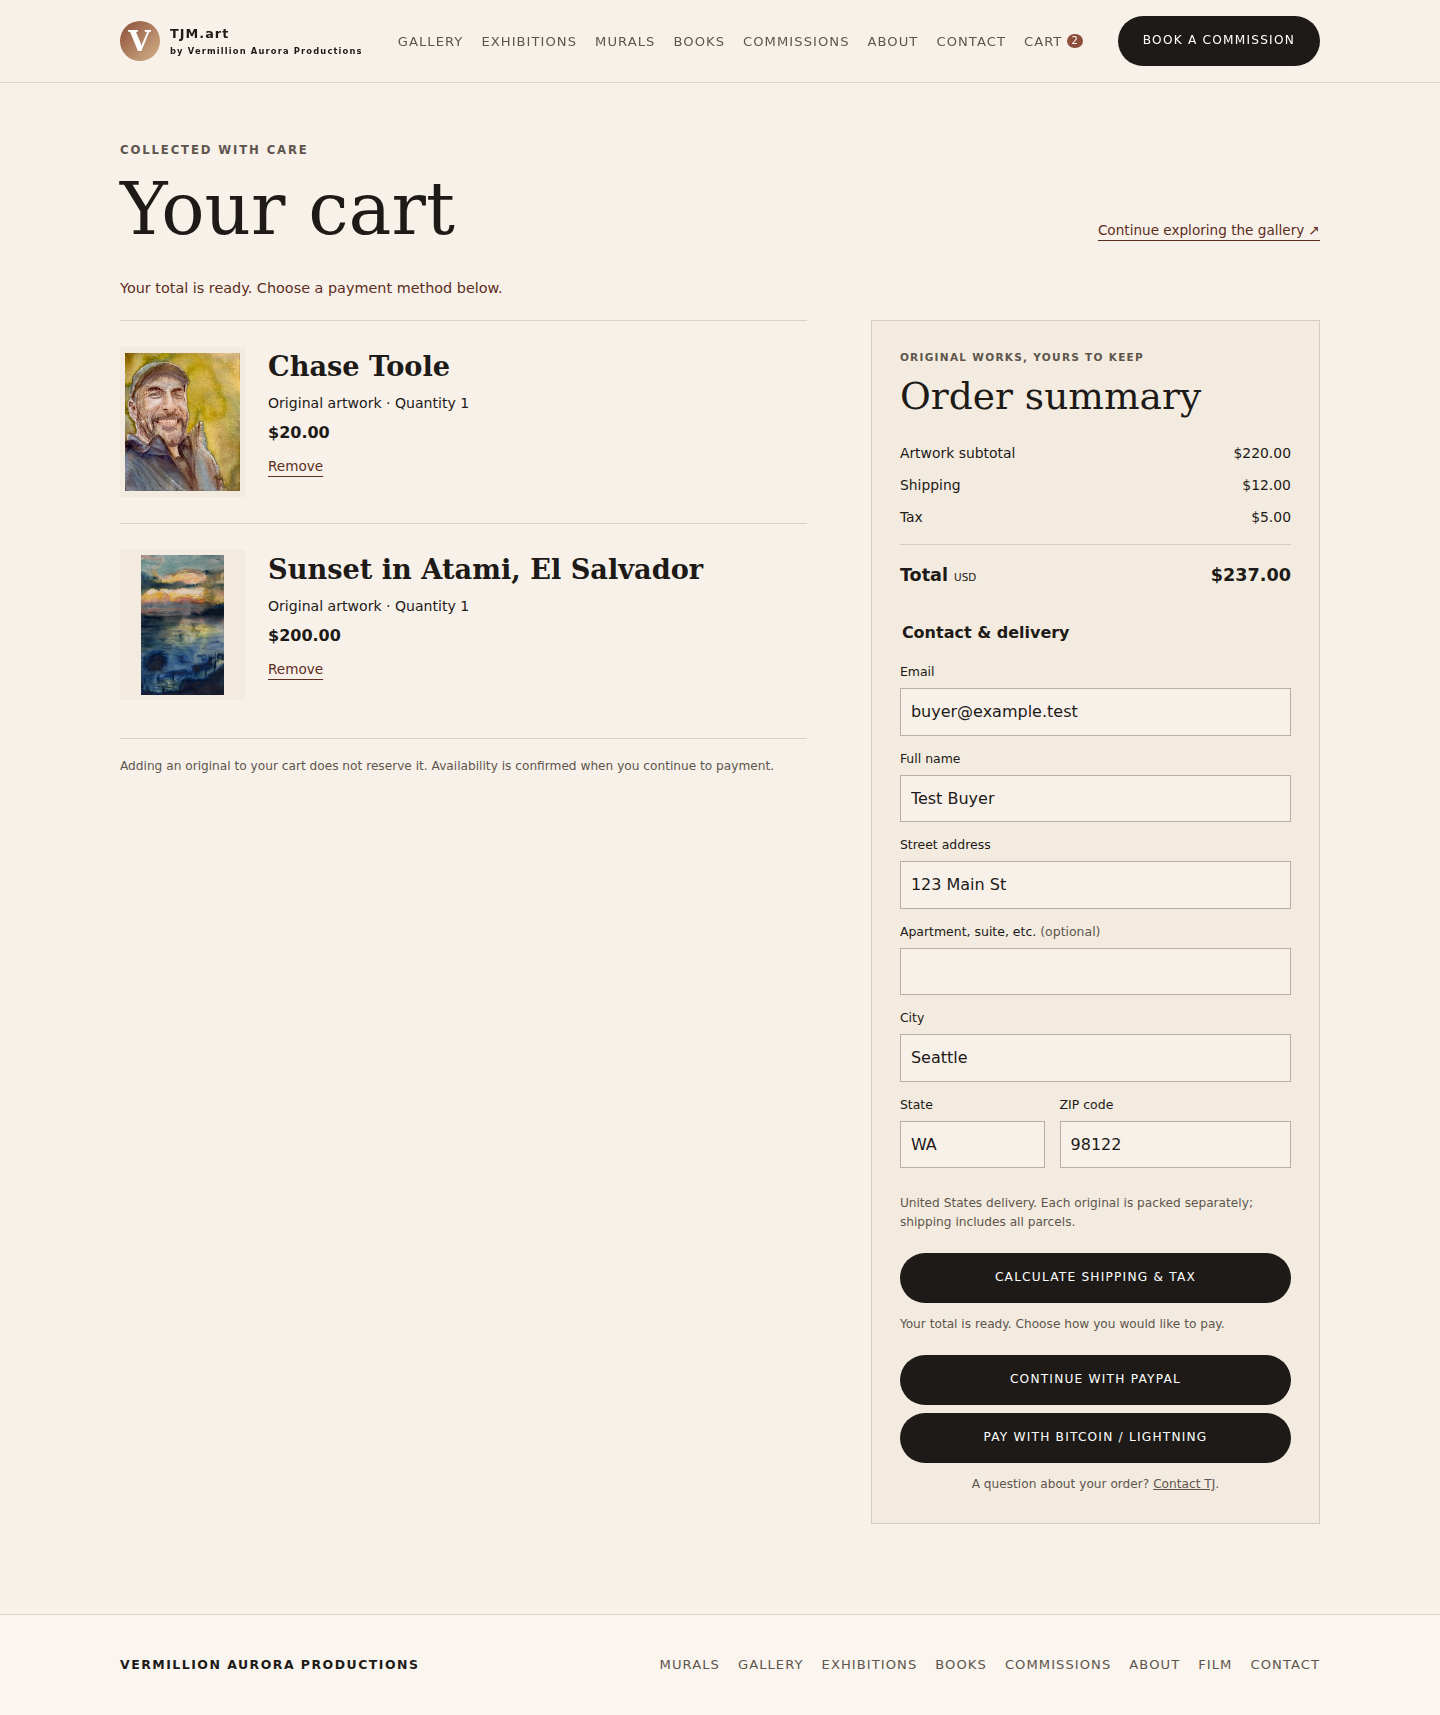
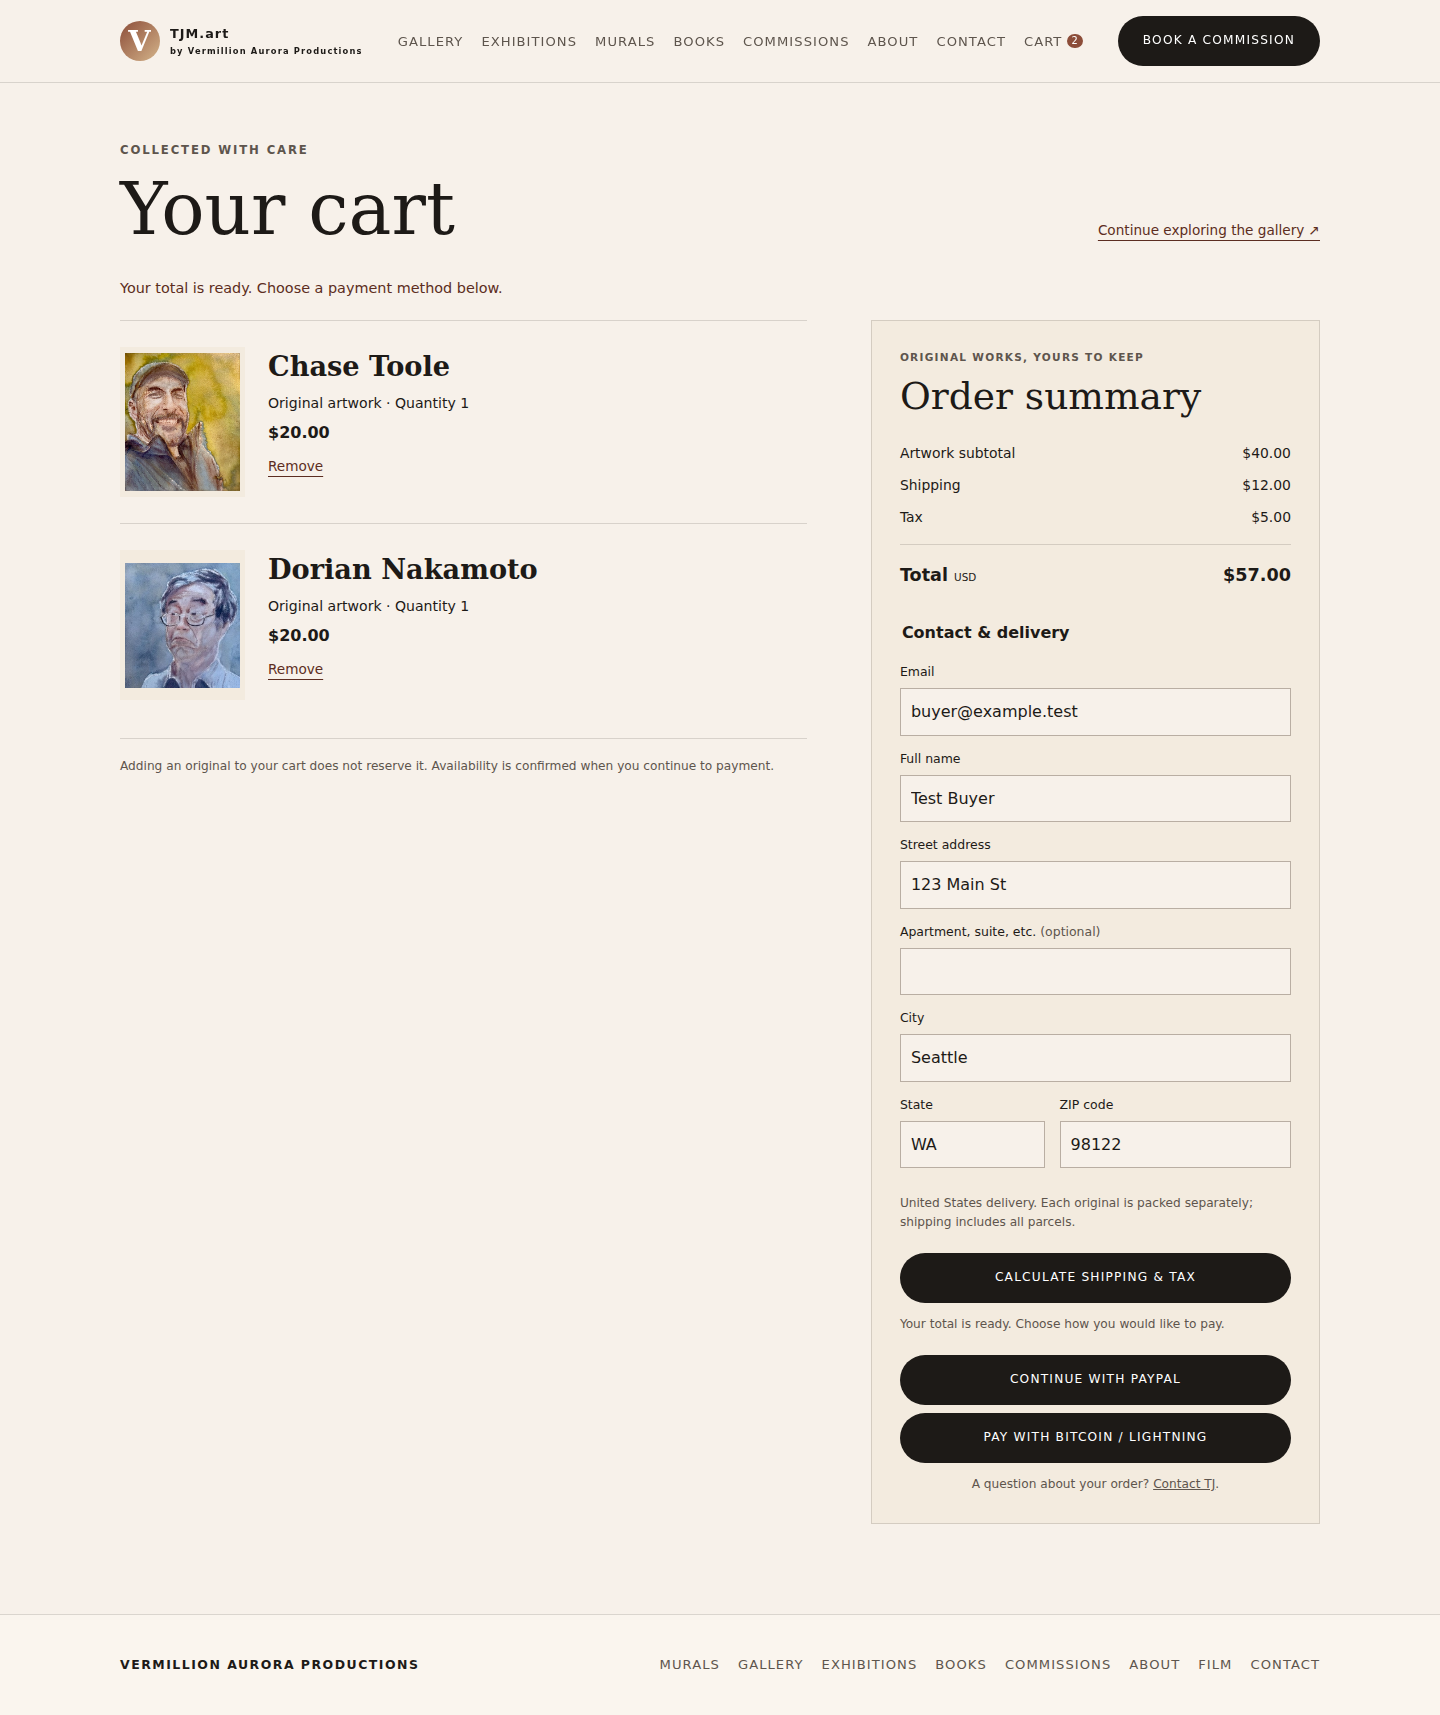
Add Dorian Nakamoto to the cart pilot at $20

Changed region(s): [[0.0625, 0.309, 0.5, 0.4327], [0.8438, 0.309, 0.875, 0.3399]]

diff --git a/docs/cart-review.md b/docs/cart-review.md
@@ -13,7 +13,7 @@ This branch implements a guest cart for original paintings. It has not been depl
 
 ## Review images
 
-These are local browser captures using test customer details and mocked payment, shipping and tax responses. They do not represent a live shipping quote or additional products enabled for purchase.
+These are local browser captures using test customer details and mocked payment, shipping and tax responses. They show the selected Chase Toole and Dorian Nakamoto pilots at $20 each. Shipping and tax totals are illustrative, not live quotes.
 
 [Desktop cart](cart-preview/cart-desktop.png) · [Mobile cart](cart-preview/cart-mobile.png) · [Confirmation](cart-preview/confirmation-mobile.png)
 
@@ -33,12 +33,12 @@ Gmail does not provide a send idempotency key. An uncertain confirmation-send ou
 
 ## Decisions before launch
 
-1. Choose which additional originals to enable and verify their packing dimensions/weights. This branch preserves the current payment allowlists, which only contain the Chase Toole pilot. The two-item previews use mocked eligibility.
+1. The owner selected **Dorian Nakamoto** (`painting-portrait-in-gold`) on September 29 as the second pilot and set its price to **$20**. This branch includes both it and the $20 Chase Toole portrait in the PayPal and Bitcoin allowlists. Dorian’s parcel remains the existing estimated 12 × 4 × 4-inch, 2-lb tube; confirm its packing before deployment. No shipping measurements were changed or marked verified.
 2. Confirm separate-parcel shipping for the first release. Combined packaging is a later improvement.
 3. Approve deployment of the API binding/migration and website together. No production or sandbox deployments, real charges, label purchases, or emails were made while developing this branch.
-4. Run a provider sandbox acceptance checkout before expanding live eligibility. Automated tests mock external payment, shipping, tax, and email services.
+4. Run a provider sandbox acceptance checkout before launching the two-item pilot. Automated tests mock external payment, shipping, tax, and email services.
 
-The branch sets `CART_CHECKOUT_ENABLED=true` for its proposed production configuration. Setting it to `false` pauses new cart quotes; existing orders can still settle. Provider allowlists remain an additional gate. Do not remove the new Durable Object binding or roll back its schema while any cart payment is unresolved. Refunds and exceptions requiring human judgment remain manual.
+The branch sets `CART_CHECKOUT_ENABLED=true` for its proposed production configuration. Setting it to `false` pauses new cart quotes; existing orders can still settle. Provider allowlists restrict the proposed release to these two portraits. Do not remove the new Durable Object binding or roll back its schema while any cart payment is unresolved. Refunds and exceptions requiring human judgment remain manual.
 
 ## Checks
 
